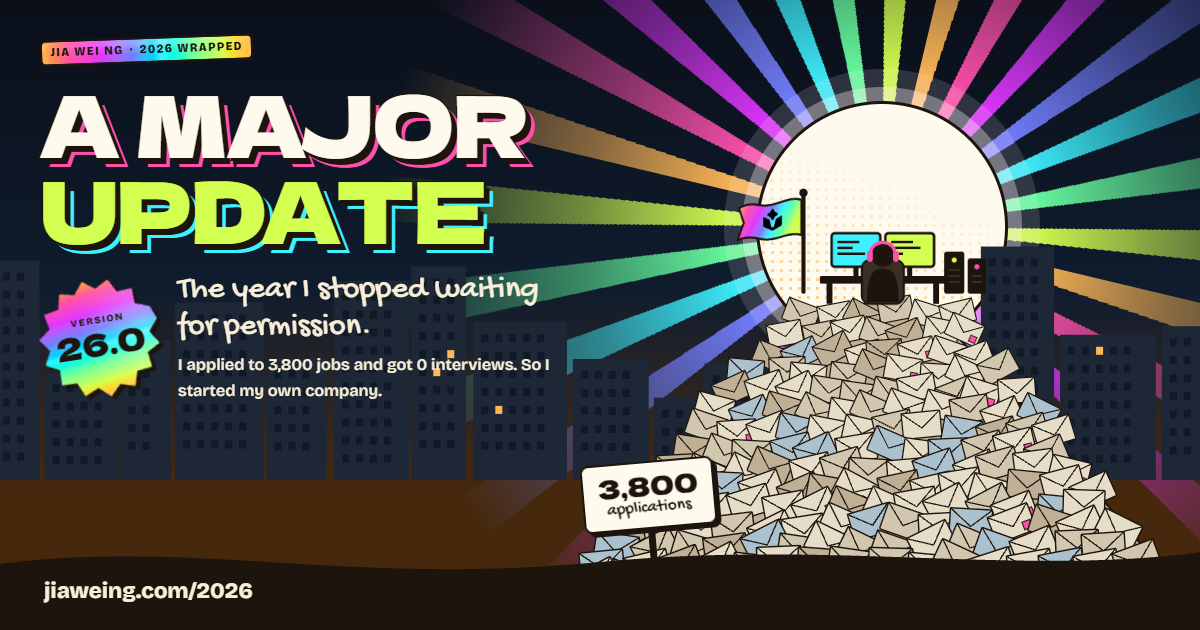
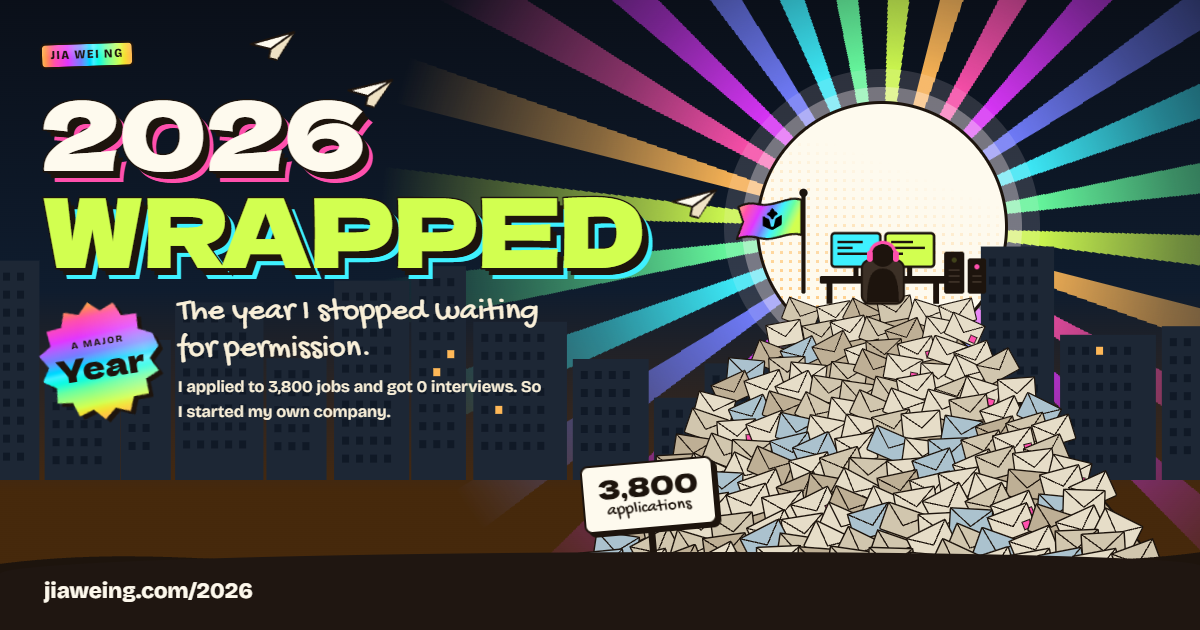
Call it 2026 Wrapped, not an update
Rename the page from "A Major Update" back to a Wrapped: hero title,
chapter labels, recap sheet, finale, ticker and share image.

diff --git a/components/wrapped-2026/finale.tsx b/components/wrapped-2026/finale.tsx
@@ -5,8 +5,8 @@ import Link from "next/link";
 import { useEffect, useRef, useState } from "react";
 import { useSeen } from "./parts";
 
-/* The end of the update. Once it scrolls into view, a Distortion Wave rings
-   out of 2026 and leaves the next update behind: 2027, on the same sunburst
+/* The end of the Wrapped. Once it scrolls into view, a Distortion Wave rings
+   out of 2026 and leaves next year behind: 2027, on the same sunburst
    the page opened with. */
 
 const WAVE_PALETTE = {
@@ -47,7 +47,7 @@ export function Finale() {
     const url = `${window.location.origin}/2026`;
     try {
       if (navigator.share && window.matchMedia("(pointer: coarse)").matches) {
-        await navigator.share({ title: "2026: A Major Update", url });
+        await navigator.share({ title: "Jia Wei's 2026 Wrapped", url });
         return;
       }
       await navigator.clipboard.writeText(url);
@@ -65,7 +65,7 @@ export function Finale() {
       id="next"
     >
       <div className="u26-wrap">
-        <p className="u26-hand u26-finale-kicker">that&apos;s the update.</p>
+        <p className="u26-hand u26-finale-kicker">that&apos;s a wrap.</p>
         <div ref={ref}>
           <DistortionWave
             className="u26-stage u26-stage--year"
@@ -76,7 +76,7 @@ export function Finale() {
               <div className="u26-year u26-year--next">
                 <div aria-hidden="true" className="u26-founded-rays" />
                 <div className="u26-year-inner">
-                  <p className="u26-tag u26-tag--paper">Next update</p>
+                  <p className="u26-tag u26-tag--paper">Up next</p>
                   <p className="u26-display u26-year-big" id="next-title">
                     2027
                   </p>
@@ -91,11 +91,11 @@ export function Finale() {
           >
             <div className="u26-year">
               <div className="u26-year-inner">
-                <p className="u26-tag">Installed</p>
+                <p className="u26-tag">Wrapped</p>
                 <p className="u26-display u26-year-big" ref={year}>
                   2026
                 </p>
-                <p className="u26-hand u26-year-note">update complete.</p>
+                <p className="u26-hand u26-year-note">all wrapped up.</p>
               </div>
             </div>
           </DistortionWave>
@@ -110,13 +110,13 @@ export function Finale() {
             Check out Ryu <span aria-hidden="true">↗</span>
           </a>
           <button className="u26-btn" onClick={share} type="button">
-            {copied ? "Link copied" : "Share this update"}
+            {copied ? "Link copied" : "Share this Wrapped"}
           </button>
           <button className="u26-btn" onClick={replay} type="button">
             Play it again
           </button>
           <Link className="u26-btn" href="/2025">
-            Previous update: 2025 <span aria-hidden="true">→</span>
+            2025 Wrapped <span aria-hidden="true">→</span>
           </Link>
         </div>
       </div>

diff --git a/components/wrapped-2026/hero.tsx b/components/wrapped-2026/hero.tsx
@@ -4,7 +4,7 @@ import { HeroScene } from "./hero-scene";
 import type { Vars } from "./parts";
 
 /* The top of the page: the way home, the key art, the title lockup with its
-   version seal, and four stubs for what is in the update. */
+   year seal, and four stubs for what is in this Wrapped. */
 
 const STUBS = [
   {
@@ -54,26 +54,24 @@ export function Hero() {
         </div>
         <div className="u26-wrap u26-hero-inner">
           <div className="u26-lockup">
-            <p className="u26-tag u26-tag--foil">
-              Jia Wei Ng <span aria-hidden="true">·</span> 2026 Wrapped
-            </p>
+            <p className="u26-tag u26-tag--foil">Jia Wei Ng</p>
             <h1 className="u26-display u26-title">
               <span className="u26-title-line" style={delay(80)}>
-                A Major
+                2026
               </span>
               <span
                 className="u26-title-line u26-title-line--b"
                 style={delay(200)}
               >
-                Update
+                Wrapped
               </span>
             </h1>
             <div className="u26-billing">
               <p className="u26-seal">
                 <span aria-hidden="true" className="u26-seal-shape" />
                 <span className="u26-seal-text">
-                  <small>Version</small>
-                  <b>26.0</b>
+                  <small>A Major</small>
+                  <b>Year</b>
                 </span>
               </p>
               <div className="u26-billtext">
@@ -88,17 +86,17 @@ export function Hero() {
             </div>
             <div className="u26-ctas">
               <a className="u26-btn u26-btn--foil" href="#queue">
-                Start the update <span aria-hidden="true">↓</span>
+                Unwrap it <span aria-hidden="true">↓</span>
               </a>
-              <a className="u26-btn" href="#patch-notes">
-                Read the patch notes
+              <a className="u26-btn" href="#recap">
+                Skip to the recap
               </a>
             </div>
           </div>
         </div>
       </div>
-      <nav aria-label="In this update" className="u26-wrap u26-stubs">
-        <p className="u26-hand u26-stubs-label">In this update</p>
+      <nav aria-label="In this Wrapped" className="u26-wrap u26-stubs">
+        <p className="u26-hand u26-stubs-label">In this Wrapped</p>
         <ol className="u26-stub-grid">
           {STUBS.map((stub) => {
             const vars: Vars = { "--stub": stub.ink };

diff --git a/components/wrapped-2026/patch-notes.tsx b/components/wrapped-2026/patch-notes.tsx
@@ -2,8 +2,9 @@ import type { ReactNode } from "react";
 import { CODE_STATS, HOOK, LINKEDIN } from "@/lib/wrapped-2026-data";
 import { Rise, type Vars } from "./parts";
 
-/* The patch notes: the whole year again as plain lines, the way an update
-   page ends. Printed on a sheet of paper that stays paper in both themes. */
+/* The recap: the whole year again as plain lines, sorted into what was
+   removed, added and changed. Printed on a sheet of paper that stays paper
+   in both themes. */
 
 const nf = new Intl.NumberFormat("en-US");
 
@@ -122,15 +123,15 @@ export function PatchNotes({
     <section
       aria-labelledby="patch-title"
       className="u26-band u26-band--alt u26-patch"
-      id="patch-notes"
+      id="recap"
     >
       <div className="u26-wrap">
         <Rise className="u26-sheet">
           <div aria-hidden="true" className="u26-sheet-holes" />
           <header className="u26-sheet-head">
-            <p className="u26-kicker">Jia Wei Ng, version 26.0</p>
+            <p className="u26-kicker">Jia Wei Ng, 2026</p>
             <h2 className="u26-display u26-sheet-title" id="patch-title">
-              Patch notes
+              The recap
             </h2>
             <p className="u26-hand u26-sheet-date">
               the whole year, line by line
@@ -157,7 +158,7 @@ export function PatchNotes({
             );
           })}
           <p className="u26-hand u26-sheet-sign">
-            That is the whole patch. Thanks for reading it.
+            That is the whole year. Thanks for reading it.
             <span>Jia Wei</span>
           </p>
         </Rise>

diff --git a/components/wrapped-2026/queue.tsx b/components/wrapped-2026/queue.tsx
@@ -6,7 +6,7 @@ import { useEffect, useRef, useState } from "react";
 import { HOOK } from "@/lib/wrapped-2026-data";
 import { ChapterHead, useSeen } from "./parts";
 
-/* Day 1, the plot twist. A grey matchmaking lobby counts up 3,800
+/* Chapter 1, the plot twist. A grey matchmaking lobby counts up 3,800
    applications and finds 0 interviews. Pressing "Host my own" sends a
    Distortion Wave up from the button and leaves the company behind. */
 
@@ -162,9 +162,13 @@ export function Queue() {
       id="queue"
     >
       <div className="u26-wrap">
-        <ChapterHead day="Day 1" id="queue-title" title="Matchmaking failed">
-          Every update fixes something. This one starts with a queue that never
-          popped: 3,800 job applications, and not one interview.
+        <ChapterHead
+          day="Chapter 1"
+          id="queue-title"
+          title="Matchmaking failed"
+        >
+          The year starts in a queue that never popped: 3,800 job applications,
+          and not one interview.
         </ChapterHead>
         <div ref={ref}>
           <DistortionWave

diff --git a/components/wrapped-2026/founder.tsx b/components/wrapped-2026/founder.tsx
@@ -3,7 +3,7 @@ import type { ReactNode } from "react";
 import { MILESTONES, type Milestone } from "@/lib/wrapped-2026-data";
 import { ChapterHead, Rise, Tilt, type Vars } from "./parts";
 
-/* Day 2: the new class and its achievements. The class card on the left is
+/* Chapter 2: the new class and its achievements. The class card on the left is
    the founder's character sheet; each milestone of the year is an enamel
    pin with its own drawing. */
 
@@ -166,7 +166,7 @@ function ClassCard() {
         <div className="u26-class-face">
           <p className="u26-class-top">
             <span className="u26-kicker">Class</span>
-            <span className="u26-kicker">v26.0</span>
+            <span className="u26-kicker">2026</span>
           </p>
           <div aria-hidden="true" className="u26-class-art">
             <div className="u26-class-rays" />
@@ -209,7 +209,7 @@ export function Founder() {
     >
       <div className="u26-wrap">
         <ChapterHead
-          day="Day 2"
+          day="Chapter 2"
           id="founder-title"
           title={
             <>

diff --git a/components/wrapped-2026/trail.tsx b/components/wrapped-2026/trail.tsx
@@ -3,15 +3,15 @@
 import { useEffect, useState } from "react";
 
 /* The chapter trail: a small rail on the left edge of wide screens that
-   shows which day of the update you are on and jumps between them. */
+   shows which chapter you are on and jumps between them. */
 
 const STOPS = [
-  { id: "queue", label: "Day 1", name: "Matchmaking failed" },
-  { id: "founder", label: "Day 2", name: "New class: Founder" },
-  { id: "grind", label: "Day 3", name: "The grind" },
-  { id: "drops", label: "Day 4", name: "Item drops" },
-  { id: "broadcast", label: "Day 5", name: "Now live" },
-  { id: "patch-notes", label: "Notes", name: "Patch notes" },
+  { id: "queue", label: "Chapter 1", name: "Matchmaking failed" },
+  { id: "founder", label: "Chapter 2", name: "New class: Founder" },
+  { id: "grind", label: "Chapter 3", name: "The grind" },
+  { id: "drops", label: "Chapter 4", name: "Item drops" },
+  { id: "broadcast", label: "Chapter 5", name: "Now live" },
+  { id: "recap", label: "Recap", name: "The recap" },
   { id: "next", label: "Next", name: "2027" },
 ] as const;
 

diff --git a/components/wrapped-2026/grind.tsx b/components/wrapped-2026/grind.tsx
@@ -5,7 +5,7 @@ import { CODE_STATS } from "@/lib/wrapped-2026-data";
 import { ChapterHead, CountUp, Rise, useSeen, type Vars } from "./parts";
 import type { Day } from "./types";
 
-/* Day 3: GitHub. The year's calendar is laid out like a tile map, the best
+/* Chapter 3: GitHub. The year's calendar is laid out like a tile map, the best
    day gets a flag, and the rest reads like the scoreboard at the end of a
    match. Streaks and active days are worked out from the calendar itself. */
 
@@ -180,8 +180,8 @@ export function Grind({ days }: { days: Day[] }) {
       id="grind"
     >
       <div className="u26-wrap">
-        <ChapterHead day="Day 3" id="grind-title" title="The grind">
-          Most of this update was written on GitHub, one contribution at a time.
+        <ChapterHead day="Chapter 3" id="grind-title" title="The grind">
+          Most of this year was written on GitHub, one contribution at a time.
           Hover or tap the map to walk the year.
         </ChapterHead>
 

diff --git a/components/wrapped-2026/u26.css b/components/wrapped-2026/u26.css
@@ -1,4 +1,4 @@
-/* 2026 Wrapped, "A Major Update": the year told like a game's major update
+/* 2026 Wrapped: the year told with the art direction of a game's big launch
    page. A screen-printed poster world: warm ink and cream paper, with the
    seven stops of the 2026 gradient as spot inks, and the whole gradient kept
    for holographic foil on the rarest things. Light theme is the day print,
@@ -796,7 +796,7 @@ body:has(.u26) .site-edge-blur {
   margin-top: 6px;
 }
 
-/* The version seal: a starburst sticker in foil */
+/* The year seal: a starburst sticker in foil */
 .u26-seal {
   position: relative;
   display: grid;
@@ -891,7 +891,7 @@ body:has(.u26) .site-edge-blur {
   margin-top: 10px;
 }
 
-/* "In this update": four stubs along the foot of the poster */
+/* "In this Wrapped": four stubs along the foot of the poster */
 .u26-stubs {
   position: relative;
   z-index: 2;

diff --git a/components/wrapped-2026/broadcast.tsx b/components/wrapped-2026/broadcast.tsx
@@ -4,7 +4,7 @@ import { LINKEDIN } from "@/lib/wrapped-2026-data";
 import { ChapterHead, CountUp, Rise, type Vars } from "./parts";
 import type { PostTitle, SocialSeries } from "./types";
 
-/* Day 5: going live. An old set shows the year's posts month by month, the
+/* Chapter 5: going live. An old set shows the year's posts month by month, the
    channels line up on a leaderboard with their follower growth since the
    first stream, and the post titles run past underneath. */
 
@@ -202,7 +202,7 @@ export function Broadcast({
       id="broadcast"
     >
       <div className="u26-wrap">
-        <ChapterHead day="Day 5" id="broadcast-title" title="Now live">
+        <ChapterHead day="Chapter 5" id="broadcast-title" title="Now live">
           On May 4 I went live with zero followers, and started streaming and
           posting every single day.
         </ChapterHead>

diff --git a/components/wrapped-2026/drops.tsx b/components/wrapped-2026/drops.tsx
@@ -5,7 +5,7 @@ import { type ReactNode, useEffect, useRef, useState } from "react";
 import { CODE_STATS, MILESTONES, RYU_APPS } from "@/lib/wrapped-2026-data";
 import { ChapterHead, Rise, Tilt, useSeen, type Vars } from "./parts";
 
-/* Day 4: what shipped. A supply crate that opens into three item cards
+/* Chapter 4: what shipped. A supply crate that opens into three item cards
    sorted by rarity (Ryu is the foil one), and under it the inventory: every
    app that ships inside Ryu, one slot each. */
 
@@ -251,7 +251,7 @@ export function Drops() {
       id="drops"
     >
       <div className="u26-wrap">
-        <ChapterHead center day="Day 4" id="drops-title" title="Item drops">
+        <ChapterHead center day="Chapter 4" id="drops-title" title="Item drops">
           Everything that shipped this year came out of one crate. Open it.
         </ChapterHead>
 

diff --git a/components/wrapped-2026/wrapped-2026.tsx b/components/wrapped-2026/wrapped-2026.tsx
@@ -14,8 +14,8 @@ import { Queue } from "./queue";
 import { Trail } from "./trail";
 import type { WrappedData } from "./types";
 
-/* 2026 Wrapped, "A Major Update": the year laid out like a game's major
-   update page. Each chapter lives in its own file; this one puts them in
+/* 2026 Wrapped: the year laid out with the art direction of a game's big
+   release page. Each chapter lives in its own file; this one puts them in
    order and works out the few numbers more than one chapter needs. */
 
 const MONTH_NAMES = [
@@ -60,8 +60,8 @@ export function Wrapped2026({
       <main>
         <Ticker
           words={[
-            "Patch 26.0 is live",
-            "A Major Update",
+            "2026 Wrapped is here",
+            "A Major year",
             "New class: Founder",
             "Ryu has dropped",
             "Job hunting removed",

diff --git a/components/wrapped-2026/u26-chapters.css b/components/wrapped-2026/u26-chapters.css
@@ -1519,7 +1519,7 @@ a.u26-ach:hover {
   background: var(--accent);
 }
 
-/* ---------- Patch notes ---------- */
+/* ---------- The recap ---------- */
 
 .u26-patch {
   --accent: var(--amber);
